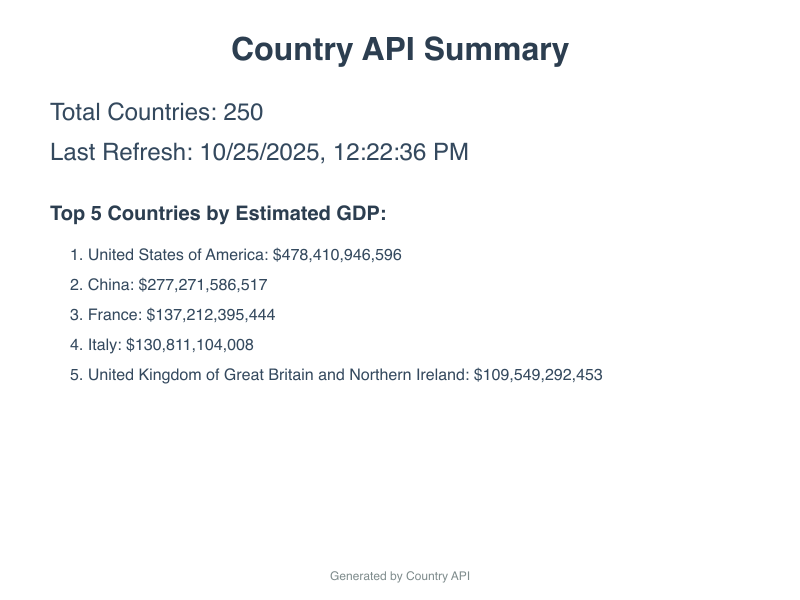
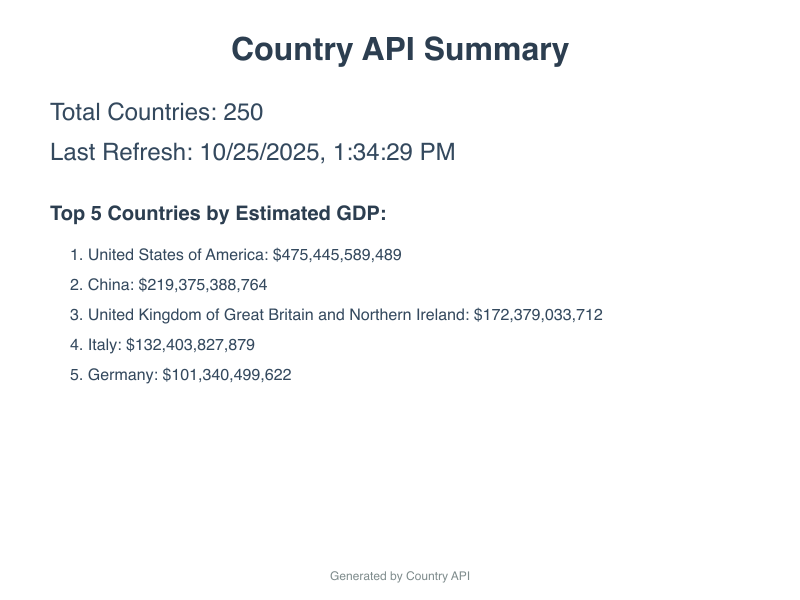
feat: Enhance country management with improved validation and error handling

diff --git a/src/model/countryModel.js b/src/model/countryModel.js
@@ -1,29 +1,73 @@
 import database from "../config/database.config.js";
 
 class CountryModel {
+  // static async findAll(filters = {}) {
+  //   try {
+  //     let query = `
+  //       SELECT id, name, capital, region, population, currency_code, exchange_rate, estimated_gdp, flag_url, last_refreshed_at
+  //       FROM countries
+  //       WHERE 1 = 1
+  //       `;
+  //     const params = [];
+
+  //     if (filters.region) {
+  //       query += ` AND region = ?`;
+  //       params.push(filters.region);
+  //     }
+
+  //     if (filters.currency) {
+  //       query += ` AND currency_code = ?`;
+  //       params.push(filters.currency);
+  //     }
+
+  //     if (filters.sort) {
+  //       const sortMapping = {
+  //         gdp_desc: "estimated_gdp DESC",
+  //         gdp_asc: "estimated_gdp ASC",
+  //         name_asc: "name ASC",
+  //         name_desc: "name DESC",
+  //         population_desc: "population DESC",
+  //         population_asc: "population ASC",
+  //       };
+  //       query += ` ORDER BY ${sortMapping[filters.sort] || "name ASC"}`;
+  //     } else {
+  //       query += ` ORDER BY name ASC`;
+  //     }
+  //     const results = await database.query(query, params);
+
+  //     return Array.isArray(results) ? results : [];
+  //   } catch (error) {
+  //     console.error("Error in Country.findAll:", error);
+  //     return [];
+  //   }
+  // }
+
+  // src/models/Country.js - Fix sorting query
   static async findAll(filters = {}) {
     try {
       let query = `
-        SELECT id, name, capital, region, population, currency_code, exchange_rate, estimated_gdp, flag_url, last_refreshed_at
-        FROM countries
-        WHERE 1 = 1
-        `;
+      SELECT id, name, capital, region, population, currency_code, 
+             exchange_rate, estimated_gdp, flag_url, last_refreshed_at
+      FROM countries 
+      WHERE 1=1
+    `;
       const params = [];
 
       if (filters.region) {
-        query += ` AND region = ?`;
+        query += " AND region = ?";
         params.push(filters.region);
       }
 
       if (filters.currency) {
-        query += ` AND currency_code = ?`;
+        query += " AND currency_code = ?";
         params.push(filters.currency);
       }
 
+      // Sorting - ensure numeric fields are sorted numerically
       if (filters.sort) {
         const sortMapping = {
-          gdp_desc: "estimated_gdp DESC",
-          gdp_asc: "estimated_gdp ASC",
+          gdp_desc: "CAST(estimated_gdp AS DECIMAL(20,2)) DESC",
+          gdp_asc: "CAST(estimated_gdp AS DECIMAL(20,2)) ASC",
           name_asc: "name ASC",
           name_desc: "name DESC",
           population_desc: "population DESC",
@@ -31,10 +75,10 @@ class CountryModel {
         };
         query += ` ORDER BY ${sortMapping[filters.sort] || "name ASC"}`;
       } else {
-        query += ` ORDER BY name ASC`;
+        query += " ORDER BY name ASC";
       }
-      const results = await database.query(query, params);
 
+      const results = await database.query(query, params);
       return Array.isArray(results) ? results : [];
     } catch (error) {
       console.error("Error in Country.findAll:", error);

diff --git a/src/middleware/validator.js b/src/middleware/validator.js
@@ -36,9 +36,9 @@ export const countryNameValidation = [
     .withMessage(
       "Country name is required and must be between 1 and 255 characters"
     )
-    .matches(/^[a-zA-Z\s\-()]+$/)
+    .matches(/^[a-zA-Z\s\-()',.]+$/)
     .withMessage(
-      "Country name can only contain letters, spaces, hyphens, and parentheses"
+      "Country name can only contain letters, spaces, hyphens, and common punctuation"
     ),
 ];
 
@@ -46,19 +46,20 @@ export const statusValidation = [];
 
 export const imageValidation = [];
 
-// Validation error handler middleware
 export const handleValidationErrors = (req, res, next) => {
   const errors = validationResult(req);
 
   if (!errors.isEmpty()) {
     const errorDetails = {};
     errors.array().forEach((error) => {
-      errorDetails[error.path] = error.msg;
+      // Extract field name from param or query
+      const field = error.type === "field" ? error.path : error.param;
+      errorDetails[field] = error.msg;
     });
 
     return res.status(400).json({
       error: "Validation failed",
-      // details: errorDetails,
+      details: errorDetails,
     });
   }
 
@@ -68,6 +69,14 @@ export const handleValidationErrors = (req, res, next) => {
 // Custom validation for country existence
 export const validateCountryExists = async (req, res, next) => {
   try {
+    const errors = validationResult(req);
+    if (!errors.isEmpty()) {
+      return res.status(400).json({
+        error: "Validation failed",
+        details: errors.array(),
+      });
+    }
+
     const CountryModel = (await import("../model/countryModel.js")).default;
     const country = await CountryModel.findByName(req.params.name);
 
@@ -79,9 +88,19 @@ export const validateCountryExists = async (req, res, next) => {
     next();
   } catch (error) {
     console.error("Country validation error:", error);
-    if (error.message && error.message.includes("Cannot read properties")) {
-      return res.status(404).json({ error: "Country not found" });
-    }
     res.status(500).json({ error: "Internal server error" });
   }
 };
+
+export const validateCountryNameOnly = [
+  param("name")
+    .trim()
+    .isLength({ min: 1, max: 255 })
+    .withMessage(
+      "Country name is required and must be between 1 and 255 characters"
+    )
+    .matches(/^[a-zA-Z\s\-()',.]+$/)
+    .withMessage(
+      "Country name can only contain letters, spaces, hyphens, and common punctuation"
+    ),
+];

diff --git a/src/routes/countryRoutes.js b/src/routes/countryRoutes.js
@@ -2,22 +2,35 @@ import { Router } from "express";
 
 import countryController from "../controllers/countryController.js";
 import {
-  refreshCountriesValidation,
   getCountriesValidation,
+  countryNameValidation,
+  refreshCountriesValidation,
   statusValidation,
+  imageValidation,
   handleValidationErrors,
   validateCountryExists,
-  countryNameValidation,
-  imageValidation,
+  validateCountryNameOnly,
 } from "../middleware/validator.js";
 
 const countryRouter = Router();
 
 countryRouter.post(
   "/refresh",
-  refreshCountriesValidation,
-  handleValidationErrors,
+  // refreshCountriesValidation,
+  // handleValidationErrors,
   countryController.refreshCountries
+);
+countryRouter.get(
+  "/image",
+  // imageValidation,
+  // handleValidationErrors,
+  countryController.getImage
+);
+countryRouter.get(
+  "/status",
+  // statusValidation,
+  // handleValidationErrors,
+  countryController.getStatus
 );
 countryRouter.get(
   "/",
@@ -25,18 +38,7 @@ countryRouter.get(
   handleValidationErrors,
   countryController.getCountries
 );
-countryRouter.get(
-  "/image",
-  imageValidation,
-  handleValidationErrors,
-  countryController.getImage
-);
-countryRouter.get(
-  "/status",
-  statusValidation,
-  handleValidationErrors,
-  countryController.getStatus
-);
+
 countryRouter.get(
   "/:name",
   countryNameValidation,
@@ -46,9 +48,9 @@ countryRouter.get(
 );
 countryRouter.delete(
   "/:name",
-  countryNameValidation,
+  validateCountryNameOnly,
   handleValidationErrors,
-  validateCountryExists,
+  // validateCountryExists,
   countryController.deleteCountry
 );
 

diff --git a/src/controllers/countryController.js b/src/controllers/countryController.js
@@ -46,17 +46,16 @@ class CountryController {
 
   async deleteCountry(req, res) {
     try {
-      await countryService.deleteCountry(req.params.name);
-      res.json({ message: "Country deleted successfully" });
-    } catch (error) {
-      if (error.message === "Country not found") {
-        return res.status(404).json({ error: "Country not found" });
+      const result = await countryService.deleteCountry(req.params.name);
+
+      if (result.deleted) {
+        res.json({ message: "Country deleted successfully" });
+      } else {
+        res.status(404).json({ error: "Country not found" });
       }
+    } catch (error) {
       console.error("Delete country error:", error);
-      res.status(500).json({
-        error: "Internal server error",
-        //details: process.env.NODE_ENV === 'development' ? error.message : undefined
-      });
+      res.status(500).json({ error: "Internal server error" });
     }
   }
 
@@ -68,8 +67,6 @@ class CountryController {
       console.error("Get status error:", error);
       res.status(500).json({
         error: "Internal server error",
-        details:
-          process.env.NODE_ENV === "development" ? error.message : undefined,
       });
     }
   }

diff --git a/src/scripts/migrate.fix.js b/src/scripts/migrate.fix.js
@@ -1,0 +1,40 @@
+import database from "../config/database.config.js";
+
+async function fixSchema() {
+  let connection;
+  try {
+    connection = await database.getConnection();
+
+    // Update estimated_gdp to ensure proper numeric storage
+    await connection.execute(`
+      ALTER TABLE countries 
+      MODIFY estimated_gdp DECIMAL(20,2) NULL
+    `);
+
+    // Update exchange_rate for proper numeric storage
+    await connection.execute(`
+      ALTER TABLE countries 
+      MODIFY exchange_rate DECIMAL(15,6) NULL
+    `);
+
+    console.log("Schema updated for proper numeric storage");
+
+    // Update existing data to ensure numbers are stored as numbers
+    await connection.execute(`
+      UPDATE countries 
+      SET estimated_gdp = CAST(estimated_gdp AS DECIMAL(20,2)),
+          exchange_rate = CAST(exchange_rate AS DECIMAL(15,6))
+    `);
+
+    console.log("Existing data converted to proper numeric format");
+
+    connection.release();
+    process.exit(0);
+  } catch (error) {
+    console.error("Schema fix failed:", error);
+    if (connection) connection.release();
+    process.exit(1);
+  }
+}
+
+fixSchema();

diff --git a/src/services/externalApiService.js b/src/services/externalApiService.js
@@ -81,13 +81,23 @@ class ExternalApiService {
   }
 
   calculateEstimatedGDP(population, exchangeRate) {
-    console.log("calculateEstimatedGDP", population, exchangeRate);
-    if (!population || !exchangeRate) {
+    if (!population || exchangeRate === null || exchangeRate === undefined) {
       return exchangeRate === null ? 0 : null;
     }
-    const randomMultiplier = Math.floor(Math.random() * 1001) + 1000;
-    console.log(randomMultiplier);
-    return (population * randomMultiplier) / exchangeRate;
+
+    // Ensure population and exchangeRate are numbers
+    const popNumber = Number(population);
+    const rateNumber = Number(exchangeRate);
+
+    if (isNaN(popNumber) || isNaN(rateNumber)) {
+      return null;
+    }
+
+    const randomMultiplier = Math.floor(Math.random() * 1001) + 1000; // 1000-2000
+    const gdp = popNumber * randomMultiplier + rateNumber;
+
+    // Return as number, not string
+    return Number(gdp.toFixed(2));
   }
 }
 

diff --git a/src/services/countryService.js b/src/services/countryService.js
@@ -159,11 +159,17 @@ class CountryService {
 
   async deleteCountry(name) {
     try {
+      const country = await CountryModel.findByName(name);
+      if (!country) {
+        return { deleted: false, message: "Country not found" };
+      }
+
       const deleted = await CountryModel.deleteByName(name);
-      if (!deleted) throw new Error("Country not found");
-      return { message: "Country deleted successfully" };
+      return {
+        deleted: deleted,
+        message: deleted ? "Country deleted successfully" : "Country not found",
+      };
     } catch (error) {
-      if (error.message === "Country not found") throw error;
       console.error("Error deleting country:", error);
       throw new Error("Failed to delete country");
     }

diff --git a/src/server.js b/src/server.js
@@ -74,8 +74,15 @@ app.use((error, req, res, next) => {
 
 app.listen(PORT, () => {
   console.log(`Country Currency API running on port ${PORT}`);
-  console.info(`Server URL: ${SERVER_URL}:${PORT}`);
   console.log(`Environment: ${process.env.NODE_ENV}`);
+  console.log("Available routes:");
+  console.log("  POST /countries/refresh");
+  console.log("  GET  /countries");
+  console.log("  GET  /countries/:name");
+  console.log("  DELETE /countries/:name");
+  console.log("  GET  /status");
+  console.log("  GET  /countries/image");
+  console.log("  GET  /health");
 });
 
 export default app;

diff --git a/src/scripts/migrate.script.js b/src/scripts/migrate.script.js
@@ -1,4 +1,4 @@
-import { database } from "../config/database.config.js";
+import database from "../config/database.config.js";
 
 async function createTables() {
   try {
